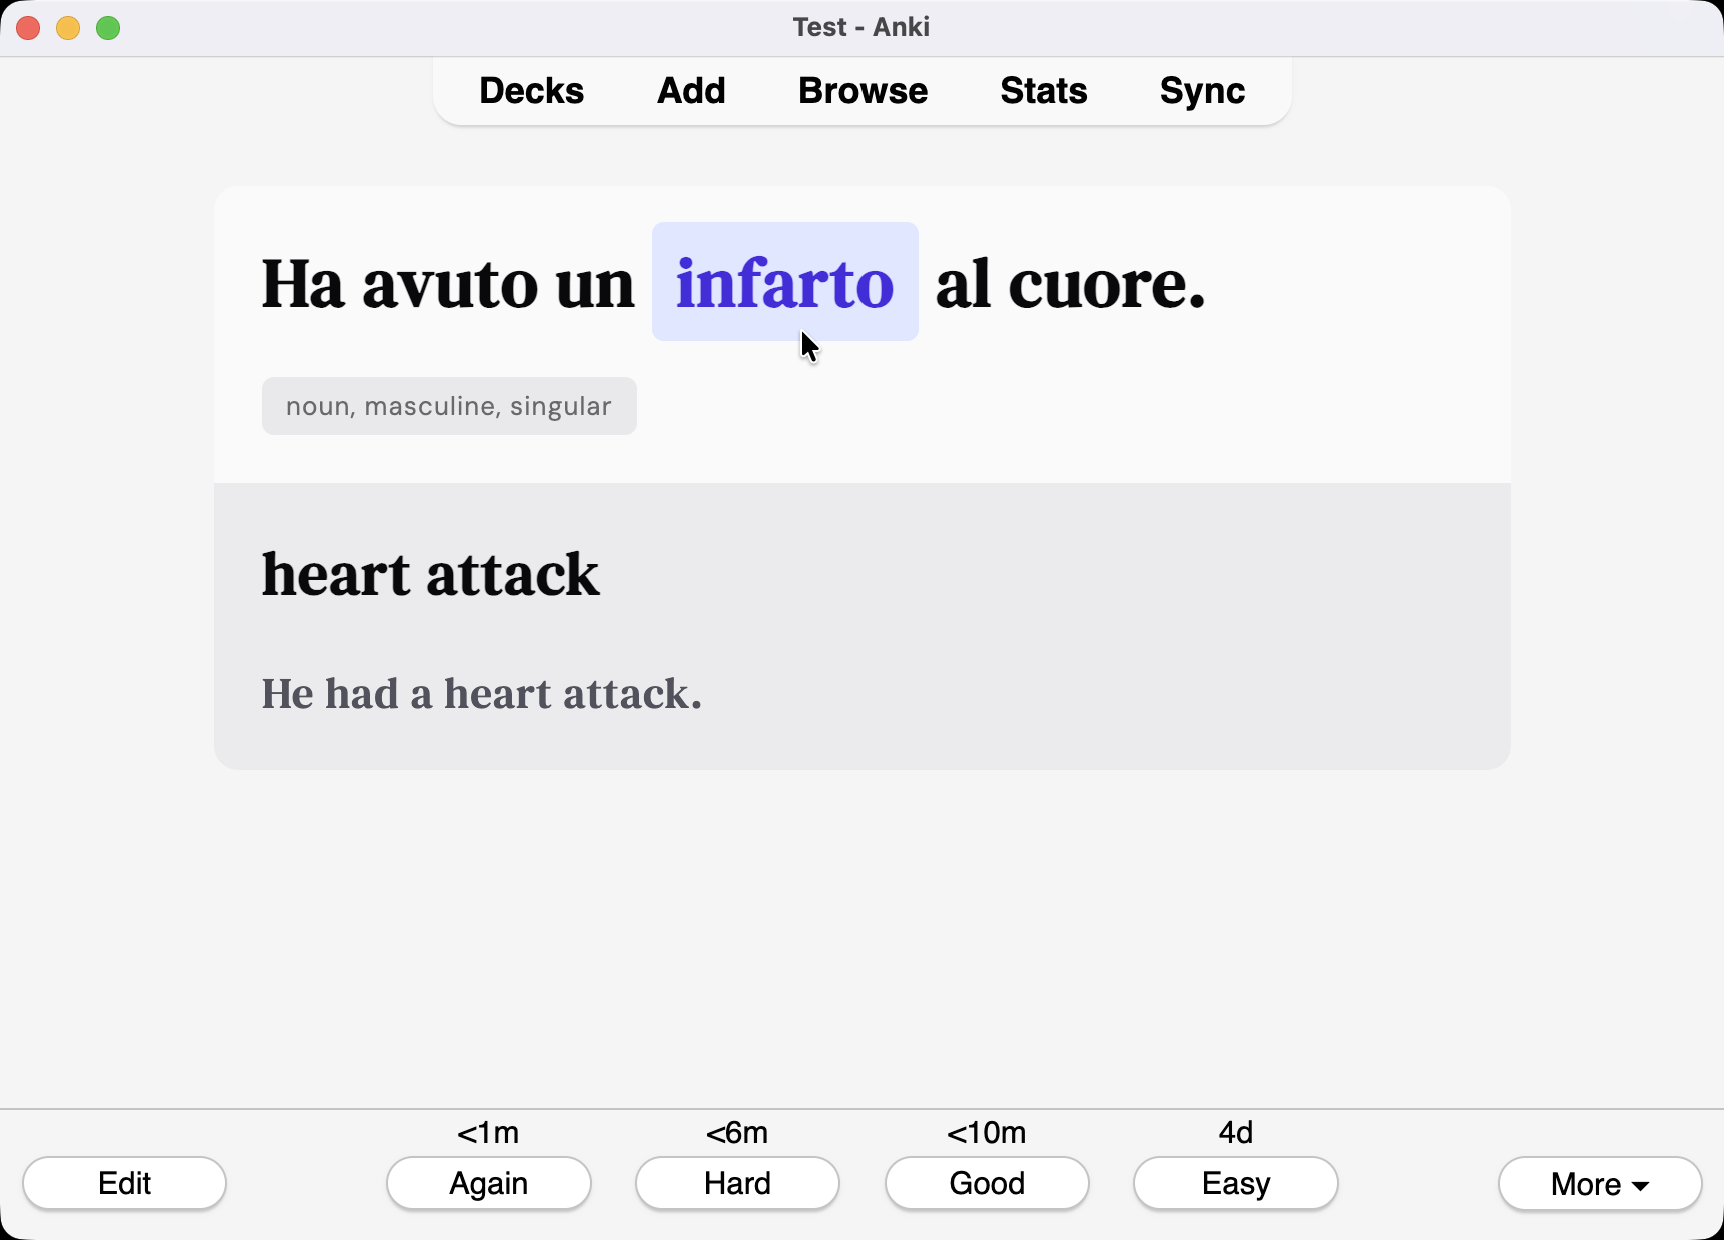
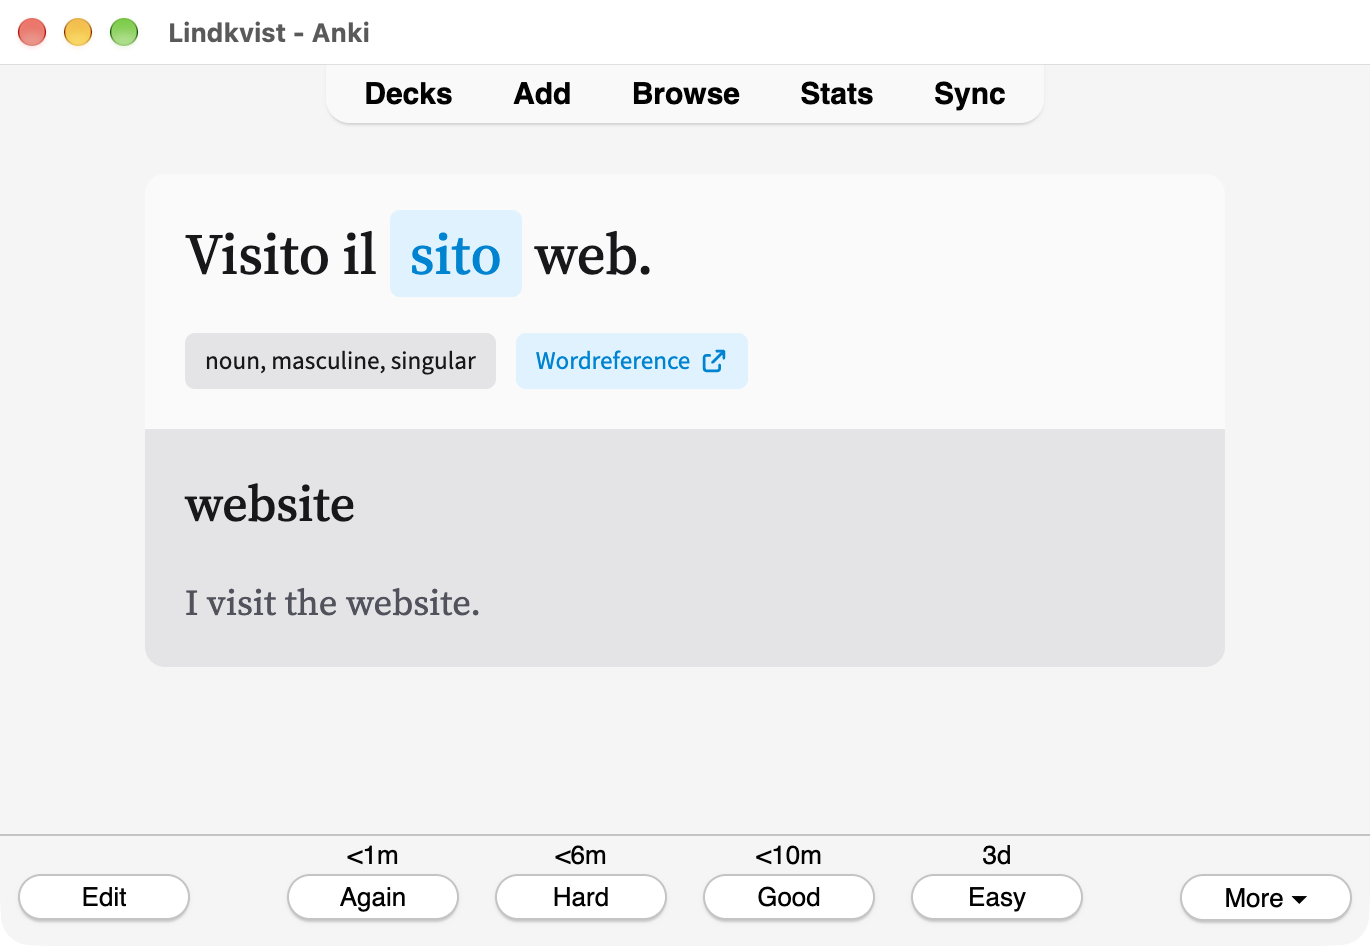
feat: add AI skill, update screenshot and README

diff --git a/README.md b/README.md
@@ -4,24 +4,23 @@
 
 A beautiful Anki card template with an example Italian vocabulary deck.
 
-## 📋 Overview
+## Overview
 
 This repository contains:
 
-- **Card Template**: Custom HTML/CSS templates for beautiful Anki cards
-- **Example Deck**: Italian vocabulary deck demonstrating the template
-- **Generation Tools**: AI prompts for creating vocabulary data
-- **Styling**: Modern, clean card design that looks better than default Anki
+- **Card template** — custom HTML/CSS for cloze vocabulary cards
+- **Example deck** — Italian→English vocabulary (CEFR A1–B1), as CSV and a ready-to-import `.apkg`
+- **Generation tools** — an AI prompt and an agent skill for producing more rows in the same format
 
 The example Italian deck includes:
 
 - Cloze deletion sentences for context-based learning
 - Part-of-speech tagging and grammatical information
 - English translations for both words and example sentences
-- Audio support for pronunciation
-- Modern, natural Italian examples (CEFR A1-B2 level)
+- Audio / TTS support for pronunciation
+- Modern, natural Italian examples (CEFR A1–B2 level)
 
-## 🗂 Project Structure
+## Project structure
 
 ```
 card/
@@ -30,75 +29,72 @@ card/
 └── style.css           # Card styling
 
 example/
-├── prompt.md           # AI prompt for generating vocabulary data
-├── words.csv           # Example Italian vocabulary data
-└── screenshot.png      # Card preview image
+├── LindkvistItaliano.apkg      # Exported Anki deck
+├── LindkvistItalianoA1.csv     # A1 vocabulary
+├── LindkvistItalianoA2.csv     # A2 vocabulary
+├── LindkvistItalianoB1.csv     # B1 vocabulary
+└── agents/
+    ├── PROMPT.md               # Standalone prompt for generating CSV rows
+    └── skills/
+        └── lindkvist-italian-csv/   # Agent skill (same format + evals)
 ```
 
-## 🚀 Usage
+## Usage
 
-### Using the Card Template
+### Card template
 
-1. **Copy the template files:**
+1. Copy `card/front.html`, `card/back.html`, and `card/style.css` into your Anki note type.
+2. Ensure field names match the CSV columns below (`ExampleSentence`, `WordPOS`, etc.).
 
-   - Copy `card/front.html`, `card/back.html`, and `card/style.css` to your Anki deck
-   - Update your deck's card templates with these files
+### Example deck
 
-2. **Try the example deck:**
-   - Import `example/words.csv` to see the template in action
-   - Install [AwesomeTTS](https://ankiweb.net/shared/info/1436550454) for text-to-speech functionality
+- Import `example/LindkvistItaliano.apkg`, or import one of the CEFR CSVs (`A1` / `A2` / `B1`).
+- Install [AwesomeTTS](https://ankiweb.net/shared/info/1436550454) (or similar) if you want text-to-speech on `TTSSentence`.
 
-### Creating Your Own Deck
+### Creating new content
 
-1. **Use the generation prompt:**
-   - Copy `example/prompt.md` and modify for your target language
-   - Use AI to generate vocabulary data in the specified CSV format
-   - Import the generated CSV into Anki
+**Option A — agent skill (recommended)**
 
-## 📝 Card Format
+Use the skill at `example/agents/skills/lindkvist-italian-csv/`. It appends Lindkvist-format rows (header + cloze rules, tags, conjugated verb forms) to a CSV.
 
-Each card contains:
+**Option B — prompt**
+
+1. Open `example/agents/PROMPT.md`.
+2. Replace `<<REPLACE_WITH_WORDS>>` with Italian lemmas.
+3. Paste into an AI tool; append the generated rows to a CSV and import into Anki.
+
+## Card format
 
 - **Front:** Italian sentence with cloze deletion
-- **Back:** Complete sentence with translation and grammatical information
-- **Audio:** Text-to-speech pronunciation
-- **Tags:** Organized by categories for easy filtering
+- **Back:** Full sentence, English translation, and grammatical information
+- **Audio:** Driven by `TTSSentence` (plain Italian without cloze markup)
+- **Tags:** Italian-style labels for filtering (e.g. `sostantivo femminile`, `verbo fare`)
 
-## Creating New Content
+## Data format
 
-1. **Use the generation prompt:**
-   - Copy `example/prompt.md` and modify for your target language
-   - Follow the CSV format specified in the prompt
-   - Generate vocabulary data using AI tools
-   - Import the generated CSV into Anki
-
-## 📊 Data Format
-
-The vocabulary data follows this CSV structure:
+Semicolon-separated CSV with this header:
 
 ```
-Word;ExampleSentence;WordPOS;TranslationWord;TranslationSentence
+Word;ExampleSentence;WordPOS;TranslationWord;TranslationSentence;TTSSentence;Audio;Tags
 ```
 
-Where:
+| Field | Content |
+|-------|---------|
+| `Word` | Form being taught (conjugated for finite verbs; otherwise the lemma) |
+| `ExampleSentence` | Short Italian sentence with the target in `{{c1::…}}` |
+| `WordPOS` | POS plus minimal grammar (`noun, feminine, singular`, `verb, 3rd person singular, presente`, …) |
+| `TranslationWord` | Concise English gloss |
+| `TranslationSentence` | Natural English of the whole sentence |
+| `TTSSentence` | Same as `ExampleSentence` with cloze markup removed |
+| `Audio` | Leave empty (filled by Anki/TTS add-ons) |
+| `Tags` | Space-separated Italian tags matching the Lindkvist deck |
 
-- `Word`: Italian lemma (base form)
-- `ExampleSentence`: Italian sentence with cloze marker `{{c1::word}}`
-- `WordPOS`: Part of speech with grammatical tags
-- `TranslationWord`: English translation
-- `TranslationSentence`: English translation of the full sentence
+Escape literal semicolons inside fields as `\;`. Multiple senses of a word → one row per sense.
 
-## 🎯 Learning Tips
-
-1. **Focus on context:** The cloze sentences provide natural context for vocabulary
-2. **Use audio:** Enable text-to-speech for pronunciation practice
-3. **Review regularly:** Follow Anki's spaced repetition algorithm
-4. **Filter by tags:** Use Anki's tag system to focus on specific topics
-
-## 📄 License
+## License
 
 See [LICENSE.md](LICENSE.md) for license information.
 
 ---
 
-_Happy learning! 🇮🇹_
+_Happy learning!_

diff --git a/example/agents/skills/lindkvist-italian-csv/SKILL.md b/example/agents/skills/lindkvist-italian-csv/SKILL.md
@@ -1,0 +1,100 @@
+---
+name: lindkvist-italian-csv
+description: >
+  Generate Lindkvist-style Italian→English Anki CSV rows from Italian lemmas
+  (words or short phrases). Use whenever the user asks for Italian flashcards,
+  Italian Anki CSV rows, cloze sentences for Italian vocabulary, Lindkvist
+  Italiano deck entries, or to append Italian words to an Anki import CSV —
+  even if they only paste an Italian word list and say "make cards" or
+  "add these". Prefer this skill over free-form CSV inventing whenever the
+  output needs Word/ExampleSentence/WordPOS/Translation* columns with
+  {{c1::…}} cloze markup for Italian.
+---
+
+# Lindkvist Italian CSV
+
+Generate semicolon-separated Anki import rows for Italian vocabulary in the Lindkvist deck format. Difficulty stays in CEFR A1–B2: simple, natural, modern European Italian (no dialect or regional slang).
+
+## Output file
+
+Append rows to a CSV file. Prefer the first match:
+
+1. **User-specified path** (explicit file in the request)
+2. **Derived path** from context (open file, recent Lindkvist CSV in the working directory, or a path already used in the conversation)
+3. **Default**: `./output.csv`
+
+If the target file does not exist, create it and write the header first, then the data rows. If it exists, append **data rows only** (do not duplicate the header).
+
+Do not write helper scripts or code — produce the CSV data and write/append it directly.
+
+## Exact CSV format
+
+Header (exactly, when creating a new file):
+
+```
+Word;ExampleSentence;WordPOS;TranslationWord;TranslationSentence;TTSSentence;Audio;Tags
+```
+
+Each data row has **8 fields**, separated by `;`:
+
+| Field | Content |
+|-------|---------|
+| Word | Form being taught. For verbs, use the **conjugated** form that appears in the cloze — not the infinitive. For other POS, use the lemma as given. |
+| ExampleSentence | Short natural Italian sentence containing the target **once**, wrapped in `{{c1::…}}` (inflect inside the cloze if needed). |
+| WordPOS | One of: `noun`, `verb`, `adj`, `adv`, `pronoun`, `prep`, `conj`, `article`, `num`, `interj`, plus minimal grammar after commas (gender, number, person, tense). |
+| TranslationWord | Concise English gloss of the target. |
+| TranslationSentence | Natural English of the whole sentence (literal enough to teach, still fluent). |
+| TTSSentence | Same as ExampleSentence with cloze markup removed. |
+| Audio | Always empty. |
+| Tags | Italian-style tags matching the Lindkvist deck (see below). |
+
+Rules that keep cards importable:
+
+- Escape literal semicolons inside fields as `\;`.
+- Multiple common senses → one full row per sense.
+- Multiple input words (comma-separated or listed) → rows for each, in order.
+- Varied sentences; avoid near-duplicates across rows in the same batch.
+- No commentary, markdown fences, or extra fields in the file — only CSV content.
+
+### WordPOS examples
+
+- `noun, feminine, singular`
+- `verb, 3rd person singular, presente`
+- `verb, 1st person singular, passato prossimo`
+- `adj, masculine, plural`
+- `prep` / `adv` / `interj` (alone when no extra grammar is needed)
+
+### Tags (match Lindkvist style)
+
+Short Italian labels, lowercase, space-separated — same spirit as the existing decks:
+
+- Nouns: `sostantivo maschile`, `sostantivo femminile` (add `plurale` when plural)
+- Adjectives: `aggettivo`
+- Adverbs: `avverbio`
+- Prepositions: `preposizione`
+- Conjunctions: `congiunzione`
+- Pronouns: `pronome`
+- Interjections: `interiezione`
+- Proper nouns: `nome proprio`
+- Fixed phrases: `espressione`
+- Verbs: `verbo <infinitive>` when the Word is a finite form of that verb (e.g. Word `faccio` → `verbo fare`); use descriptive Italian for tense/person when that is the teaching focus (e.g. `verbo 3 persona singolare passato prossimo`); reflexive → `verbo riflessivo` when appropriate
+
+### Verb Word column
+
+Input may be an infinitive (`andare`) or a finite form (`è stata`). The **Word** field must be the conjugated form taught by the card (the form inside `{{c1::…}}`, normalized for the Word column — typically lowercase unless the form is inherently capitalized mid-sentence rules aside). Do not put bare infinitives in Word when the sentence uses a finite form. If the teaching target truly is the infinitive construction (e.g. after a modal: `Devo {{c1::andare}}…`), Word may be that infinitive and WordPOS `verb, infinitive` with tag `verbo infinito`.
+
+## Workflow
+
+1. Resolve the output path (user → context → `./output.csv`).
+2. Parse input lemmas / phrases.
+3. For each item (and each sense), build one row following the format above.
+4. Create the file with header if needed; otherwise append rows only.
+5. Briefly confirm what was appended (path + word count) unless the user asked for silent CSV-only chat output.
+
+## Format example (emulate; do not reuse these sentences)
+
+```
+Word;ExampleSentence;WordPOS;TranslationWord;TranslationSentence;TTSSentence;Audio;Tags
+borsa;La ragazza ha comprato una {{c1::borsa}}.;noun, feminine, singular;bag;The girl bought a bag.;La ragazza ha comprato una borsa.;;sostantivo femminile
+è stata;{{c1::È stata}} una giornata lunga.;verb, 3rd person singular, passato prossimo;be;It was a long day.;È stata una giornata lunga.;;verbo 3 persona singolare passato prossimo
+```
